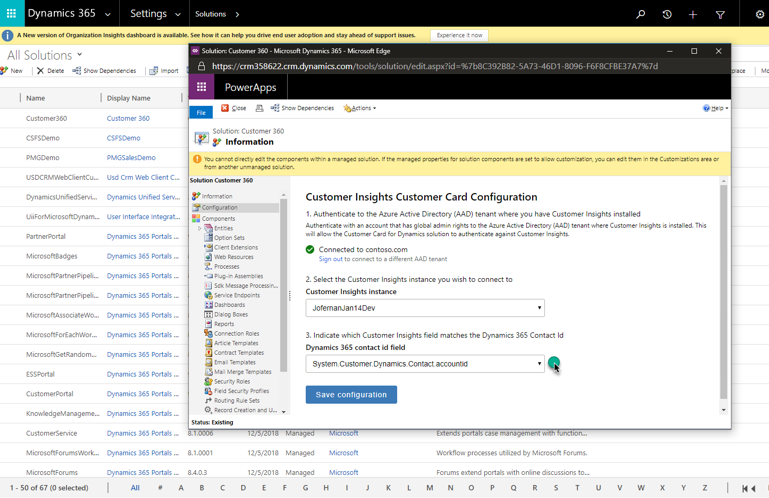
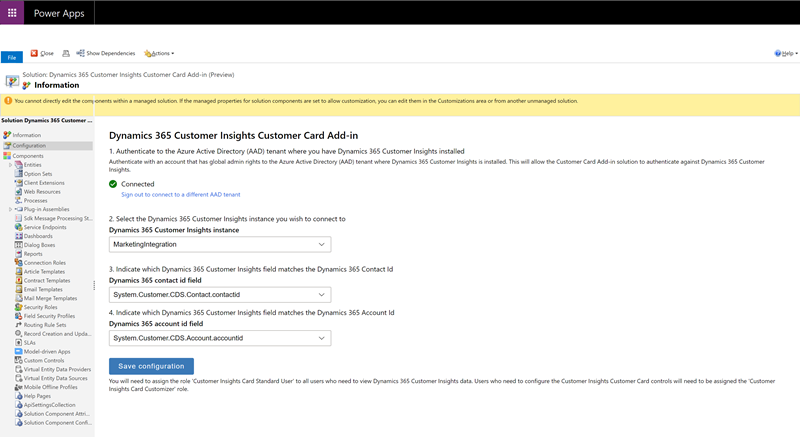
configuration update

diff --git a/ai-docs/customer-insights/pm-customer-card-addin.md b/ai-docs/customer-insights/pm-customer-card-addin.md
@@ -26,58 +26,59 @@ Get a 360-degree view of your customers inside Dynamics 365 apps. View demograph
 
 ## Install the Customer Card Add-in
 
+The Customer Card Add-in is a solution for Dynamics 365 model-driven apps. To install the solution, go to AppSource and search for **Dynamics Customer Card**. Select the [Customer Card Add-in on AppSource](https://appsource.microsoft.com/product/dynamics-365/mscrm.dynamics_365_customer_insights_customer_card_addin?tab=Overview) and select **Get It Now**.
+
+You may need to sign in with your admin credentials for the Dynamics 365 model-drive app to install the solution.
+
+It can take some time for the solution to be installed to your environment.
+
+## Configure the Customer Card Add-in
+
 1. As an admin, go to the **Settings** section in model-driven apps in Dynamics 365, and select **Solutions**.
 
-2. Select the **Display Name** link for the Customer Insights solution.
+1. Select the **Display Name** link for the **Dynamics 365 Customer Insights Customer Card Add-in (Preview)** solution.
 
    > [!div class="mx-imgBorder"]
    > ![Select display name](media/select-display-name.png "Select display name")
 
-   If the Customer Insights solution doesn't appear in your list of solutions, select **Get Solutions from Marketplace** above the list. This will take you to Microsoft AppSource.
-
-   In Microsoft AppSource, search for the Dynamics Customer Card and select **Get It Now**. It may take some time for the solution to be installed to your environment.
-
-3. Here you'll configure the overall settings for the Customer Card add-in. Sign in with the admin Azure Active Directory (Azure AD) account you use to configure Customer Insights.
+1. Select **Sign in** and enter the credentials for the admin account you use to configure Customer Insights.
 
    > [!NOTE]
-   > Check that the browser pop-up blocker does not block the authentication window when you select the **Authenticate** button.
+   > Check that the browser pop-up blocker does not block the authentication window when you select the **Sign in** button.
 
-<!-- we need to check that we use the right UI text for "Authenticate"-->
+1. Select the Customer Insights instance you want to fetch data from.
 
-4. Select the Customer Insights instance you want to fetch data from.
-
-5. Select the field in the Customer Insights Customer entity that matches the ID of your Contact entity.
+1. Now you define which field from Customer Insights maps to a record in the Dynamics 365 app. You need to map at least one field.
+   - To map with a contact, select the field in the Customer Insights Customer entity that matches the ID of your contact entity.
+   - To map with an account, select the field in the Customers Insights Customer entity that corresponds to the organization ID.
 
    > [!div class="mx-imgBorder"]
    > ![Contact ID field](media/contact-id-field.png "Contact ID field")
 
-6. Select **Save configuration** to save the setting.
+1. Select **Save configuration** to save the settings.
 
-<!-- Is it sufficiently clear how to assign user roles? -->
-7. Next, assign the following user roles:
+1. Next, you need to assign security roles in Dynamics 365 so users can customize and see the customer card. In Dynamics 365, go to **Settings** > **Security** > **Users**. Select the users to edit user roles and select **Manage roles**. Assign the following roles:
 
    - **Customer Insights Card Customizer**: Assign this role to users who will customize the content shown on the card for the whole organization.
    - **Customer Insights Card Standard User**: Assign this role to users who will use the card for consumption, but who won't customize.
-  
-8. Now you can add the Customer Card controls into your contact form. To do so, go to the **Settings** section in model-driven apps in Dynamics 365, and then select **Customizations**.
-  
-    To associate an Account form to an organization, you can select the Customers Insights Customer entity that corresponds to the organization ID (CompanyId in this case).
-   > [!div class="mx-imgBorder"]
-   > ![Contact ID field](media/customer-card-add-in-b2b.png "Account ID field")
 
-9. Select **Save configuration** to save the settings.
+## Add Customer Insights controls to forms
+  
+1. Now you can add the Customer Card controls into your contact form. To do so, go to the **Settings** section in model-driven apps in Dynamics 365, and then select **Customizations**.
+
+1. Select **Save configuration** to save the settings.
 
    > [!div class="mx-imgBorder"]
    > ![Settings customizations](media/settings-customizations.png "Settings customizations")
 
-10. Select **Customize the System**.
+1. Select **Customize the System**.
 
-11. Browse to the Contact entity, expand its menu, and then select **Forms**.
+1. Browse to the Contact entity, expand its menu, and then select **Forms**.
 
     > [!div class="mx-imgBorder"]
     > ![Expand Contact entity menu](media/contact-entity-definition.png "Expand Contact entity menu")
 
-12. Select the contact form to which you would like to add the Customer Card controls.
+1. Select the contact form to which you would like to add the Customer Card controls.
 
     > [!div class="mx-imgBorder"]
     > ![Select Contact form](media/contact-active-forms.png "Select Contact form")
